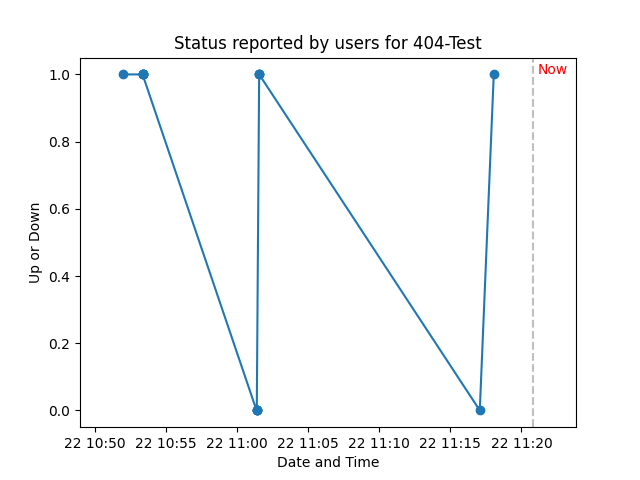
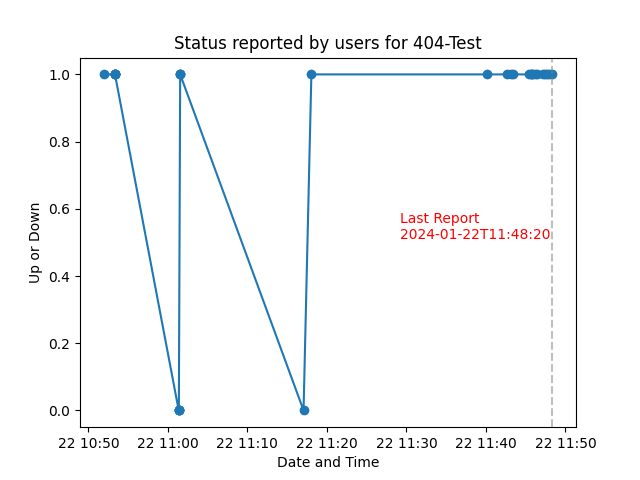
Change rendering method and added inheritance, tweak for plots

diff --git a/templates/index.html b/templates/index.html
@@ -1,13 +1,12 @@
-<!DOCTYPE html>
-<html lang="en">
-<head>
-    <meta charset="UTF-8">
-    <meta name="viewport" content="width=device-width, initial-scale=1.0">
+{% extends "base.html" %}
+
+{% block head %}
     <title>UCLouvain Down</title>
     <link rel="stylesheet" href="../static/style.css">
     <link rel="icon" type="image/x-icon" href="/static/ico/icoDOWN.png">
-</head>
-<body>
+{% endblock %}
+
+{% block content %}
     <h1>Is it down ?</h1>
     <div class="homepanel">
         {% for site in serviceList %} 
@@ -15,12 +14,4 @@
         {% endfor %}
     </div>
 
-    <footer>
-        <p> 
-            <a href="https://github.com/Tfloow/UCLouvainDown" class="github-footer">Github</a> -
-            <a href="https://github.com/Tfloow/UCLouvainDown/issues" class="github-footer">Issue or Request ?</a> -
-            <a href="https://github.com/Tfloow/UCLouvainDown#introduction" class="github-footer">What is this ?</a>
-        </p>
-    </footer>
-</body>
-</html>
+{% endblock %}

diff --git a/templates/base.html b/templates/base.html
@@ -1,0 +1,30 @@
+<!DOCTYPE html>
+<html lang="en">
+<head>
+    <meta charset="UTF-8">
+    <meta name="viewport" content="width=device-width, initial-scale=1.0">
+
+    {% block head %}
+    <title>UCLouvain Down</title>
+    <link rel="stylesheet" href="../static/style.css">
+    <link rel="icon" type="image/x-icon" href="/static/ico/icoDOWN.png">
+    {% endblock %}
+</head>
+<body>
+    {% block content %}
+
+    {% endblock %}
+
+    <footer>
+        <p> 
+            <a href="https://github.com/Tfloow/UCLouvainDown" class="github-footer">Github</a> -
+            <a href="https://github.com/Tfloow/UCLouvainDown/issues" class="github-footer">Issue or Request ?</a> -
+            <a href="https://github.com/Tfloow/UCLouvainDown#introduction" class="github-footer">What is this ?</a>
+        </p>
+    </footer>
+
+    {% block script %}
+
+    {% endblock %}
+</body>
+</html>

diff --git a/templates/itemWebsite.html b/templates/itemWebsite.html
@@ -1,8 +1,5 @@
-<!DOCTYPE html>
-<html lang="en">
-<head>
-    <meta charset="UTF-8">
-    <meta name="viewport" content="width=device-width, initial-scale=1.0">
+{% extends "base.html" %}
+{% block head %}
     <title>Item</title>
     <link rel="stylesheet" href="../static/styleItem.css">
     {% if UP %}
@@ -10,8 +7,10 @@
     {% else %}
         <link rel="icon" type="image/x-icon" href="/static/ico/icoDOWN.png">
     {% endif %}
-</head>
-<body>
+{% endblock %}
+
+
+    {% block content %}
     <h2>Status for {{ service }} @ <a href={{ url }} id="urlTO"> {{ url }} </a> </h2>
 
     {% if UP %}
@@ -43,6 +42,8 @@
         <img src="../static/img/log/{{ service }}.png" alt="Graph for {{ service }}">
     </div>
 
+{% endblock %}
+
+{% block script %}
     <script src="../static/script/itemWebsite.js"></script> 
-</body>
-</html>
+{% endblock %}

diff --git a/static/styleItem.css b/static/styleItem.css
@@ -135,3 +135,12 @@ button.no:hover{
 #result{
     height: 20px;
 }
+
+footer{
+    text-align: center;
+    color: rgb(121, 121, 121);
+}
+
+footer .github-footer{
+    color: rgb(121, 121, 121);
+}

diff --git a/dataReport.py b/dataReport.py
@@ -63,8 +63,8 @@ def plot(service):
         ax.axvline(x=timeNow, linestyle="--", color="gray", alpha=0.5)
         ax.set_xlim(timeArray[0] - np.timedelta64(3, "m"), timeNow + np.timedelta64(3, "m"))
         
-        now_kwargs = dict(color="red")
-        ax.text(timeNow + np.timedelta64(20, "s"), 1, "Now", **now_kwargs)
+        now_kwargs = dict(color="red",ha='left', va='bottom')
+        ax.text(timeNow - np.timedelta64((timeNow - timeArray[0]))*0.34 , 0.5, f"Last Report\n{timeNow}", **now_kwargs)
         
         
         ax.set_title(f"Status reported by users for {service}")
